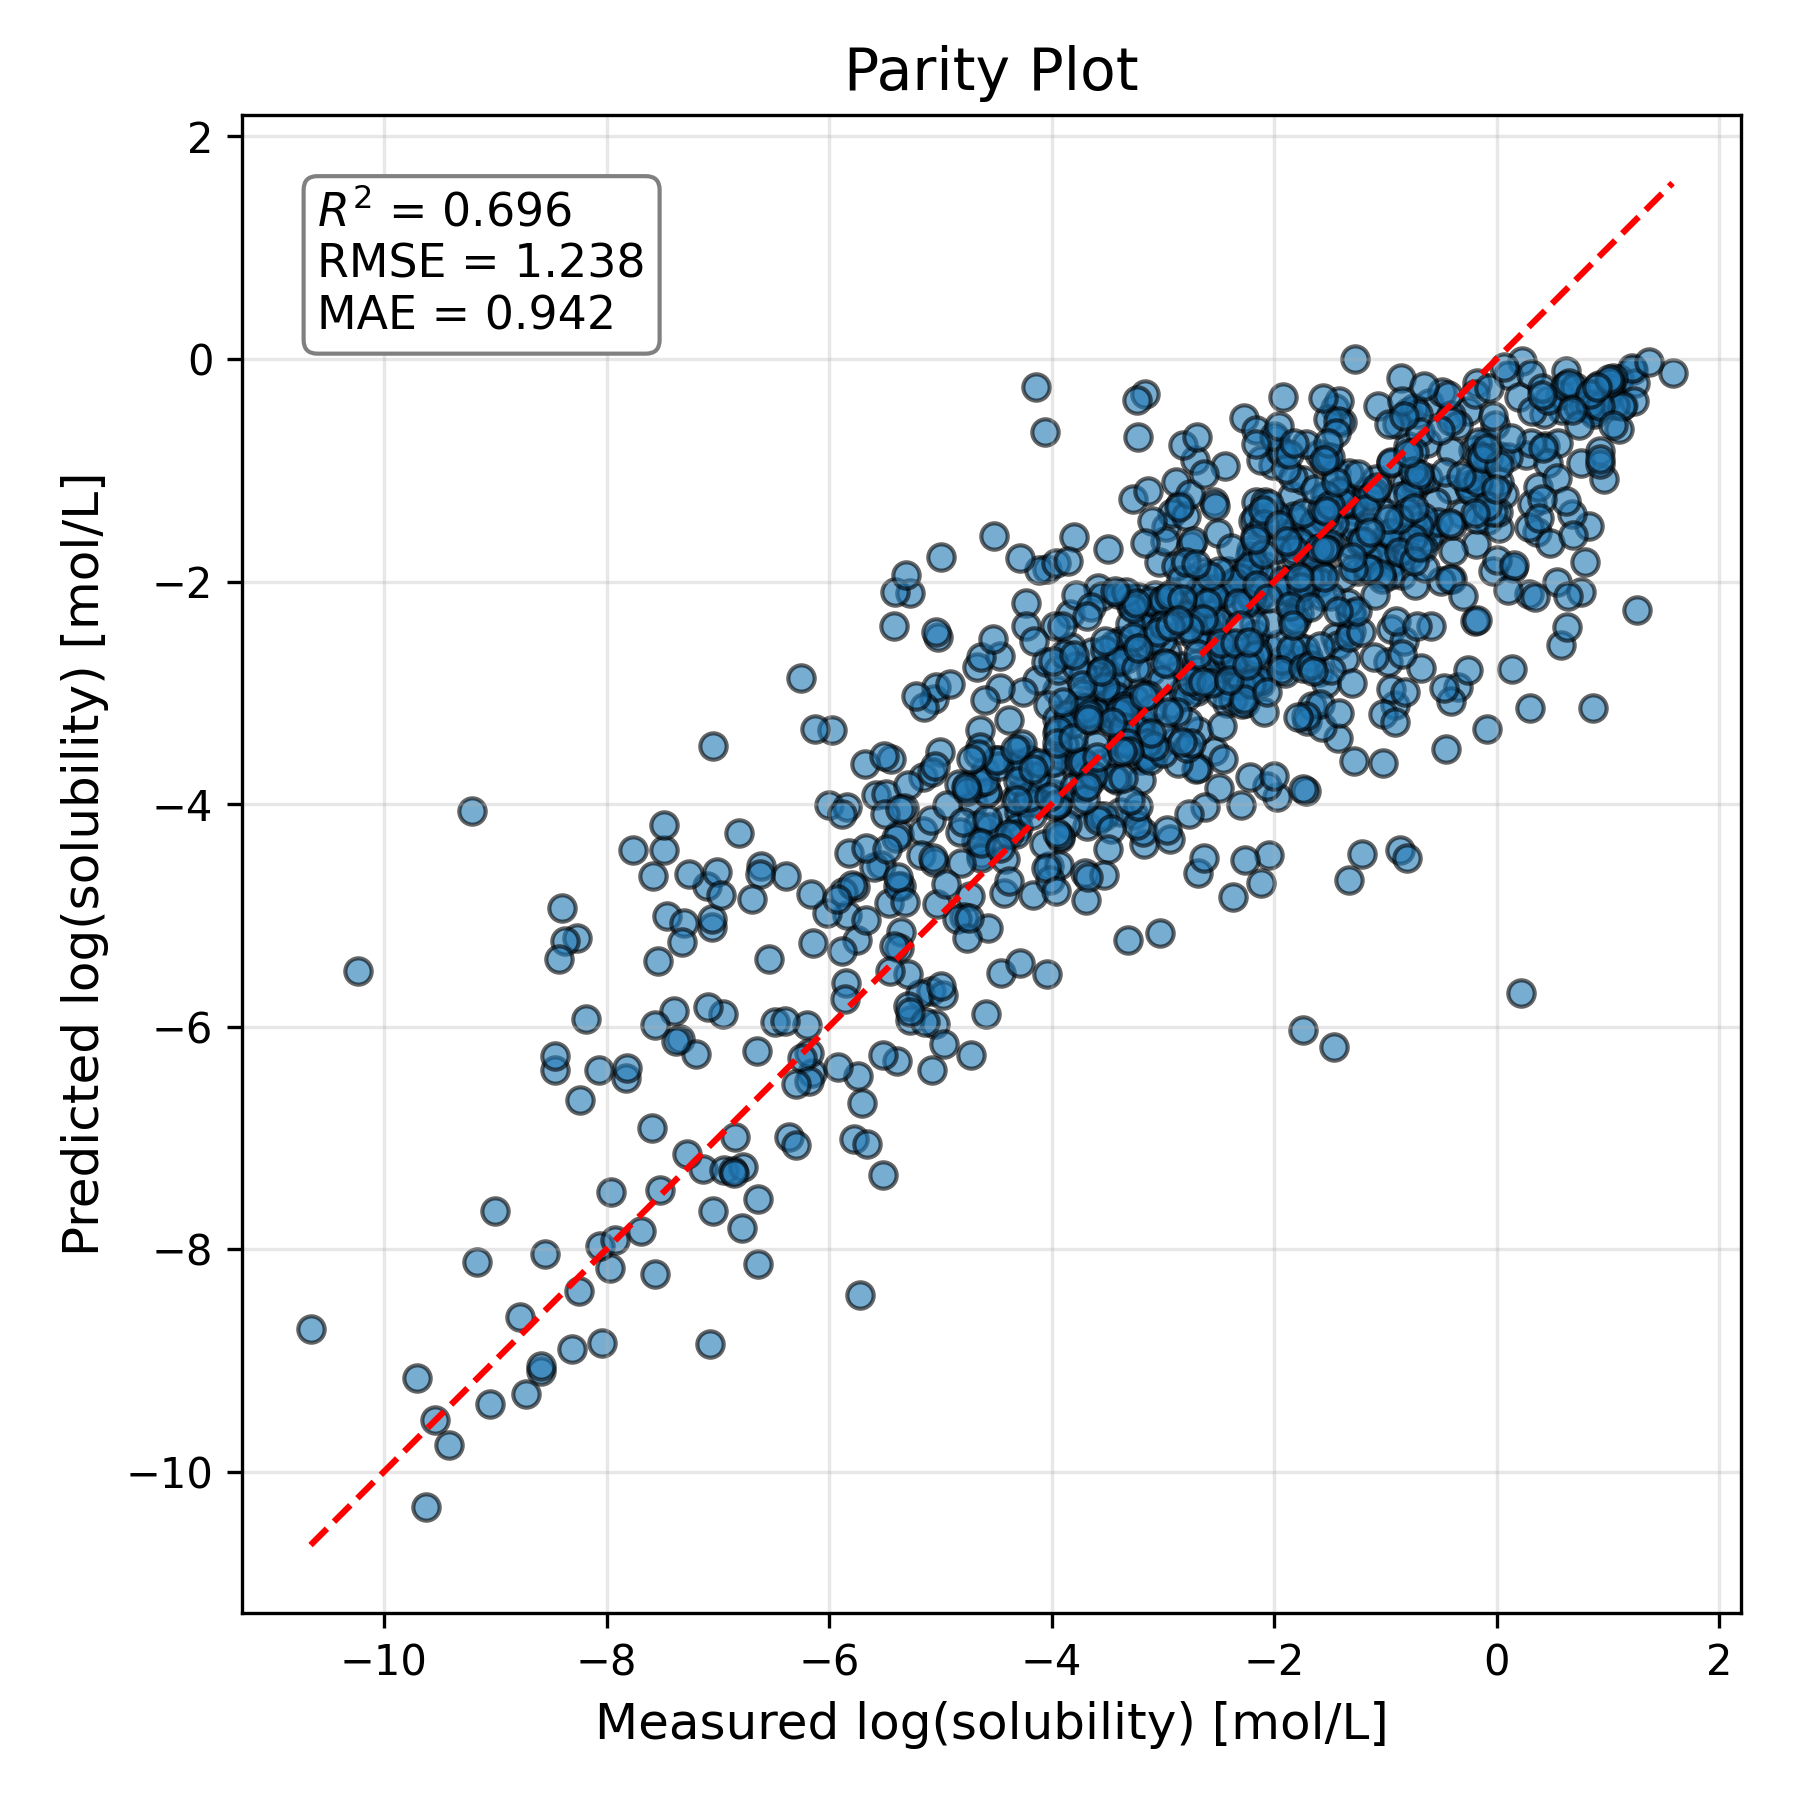
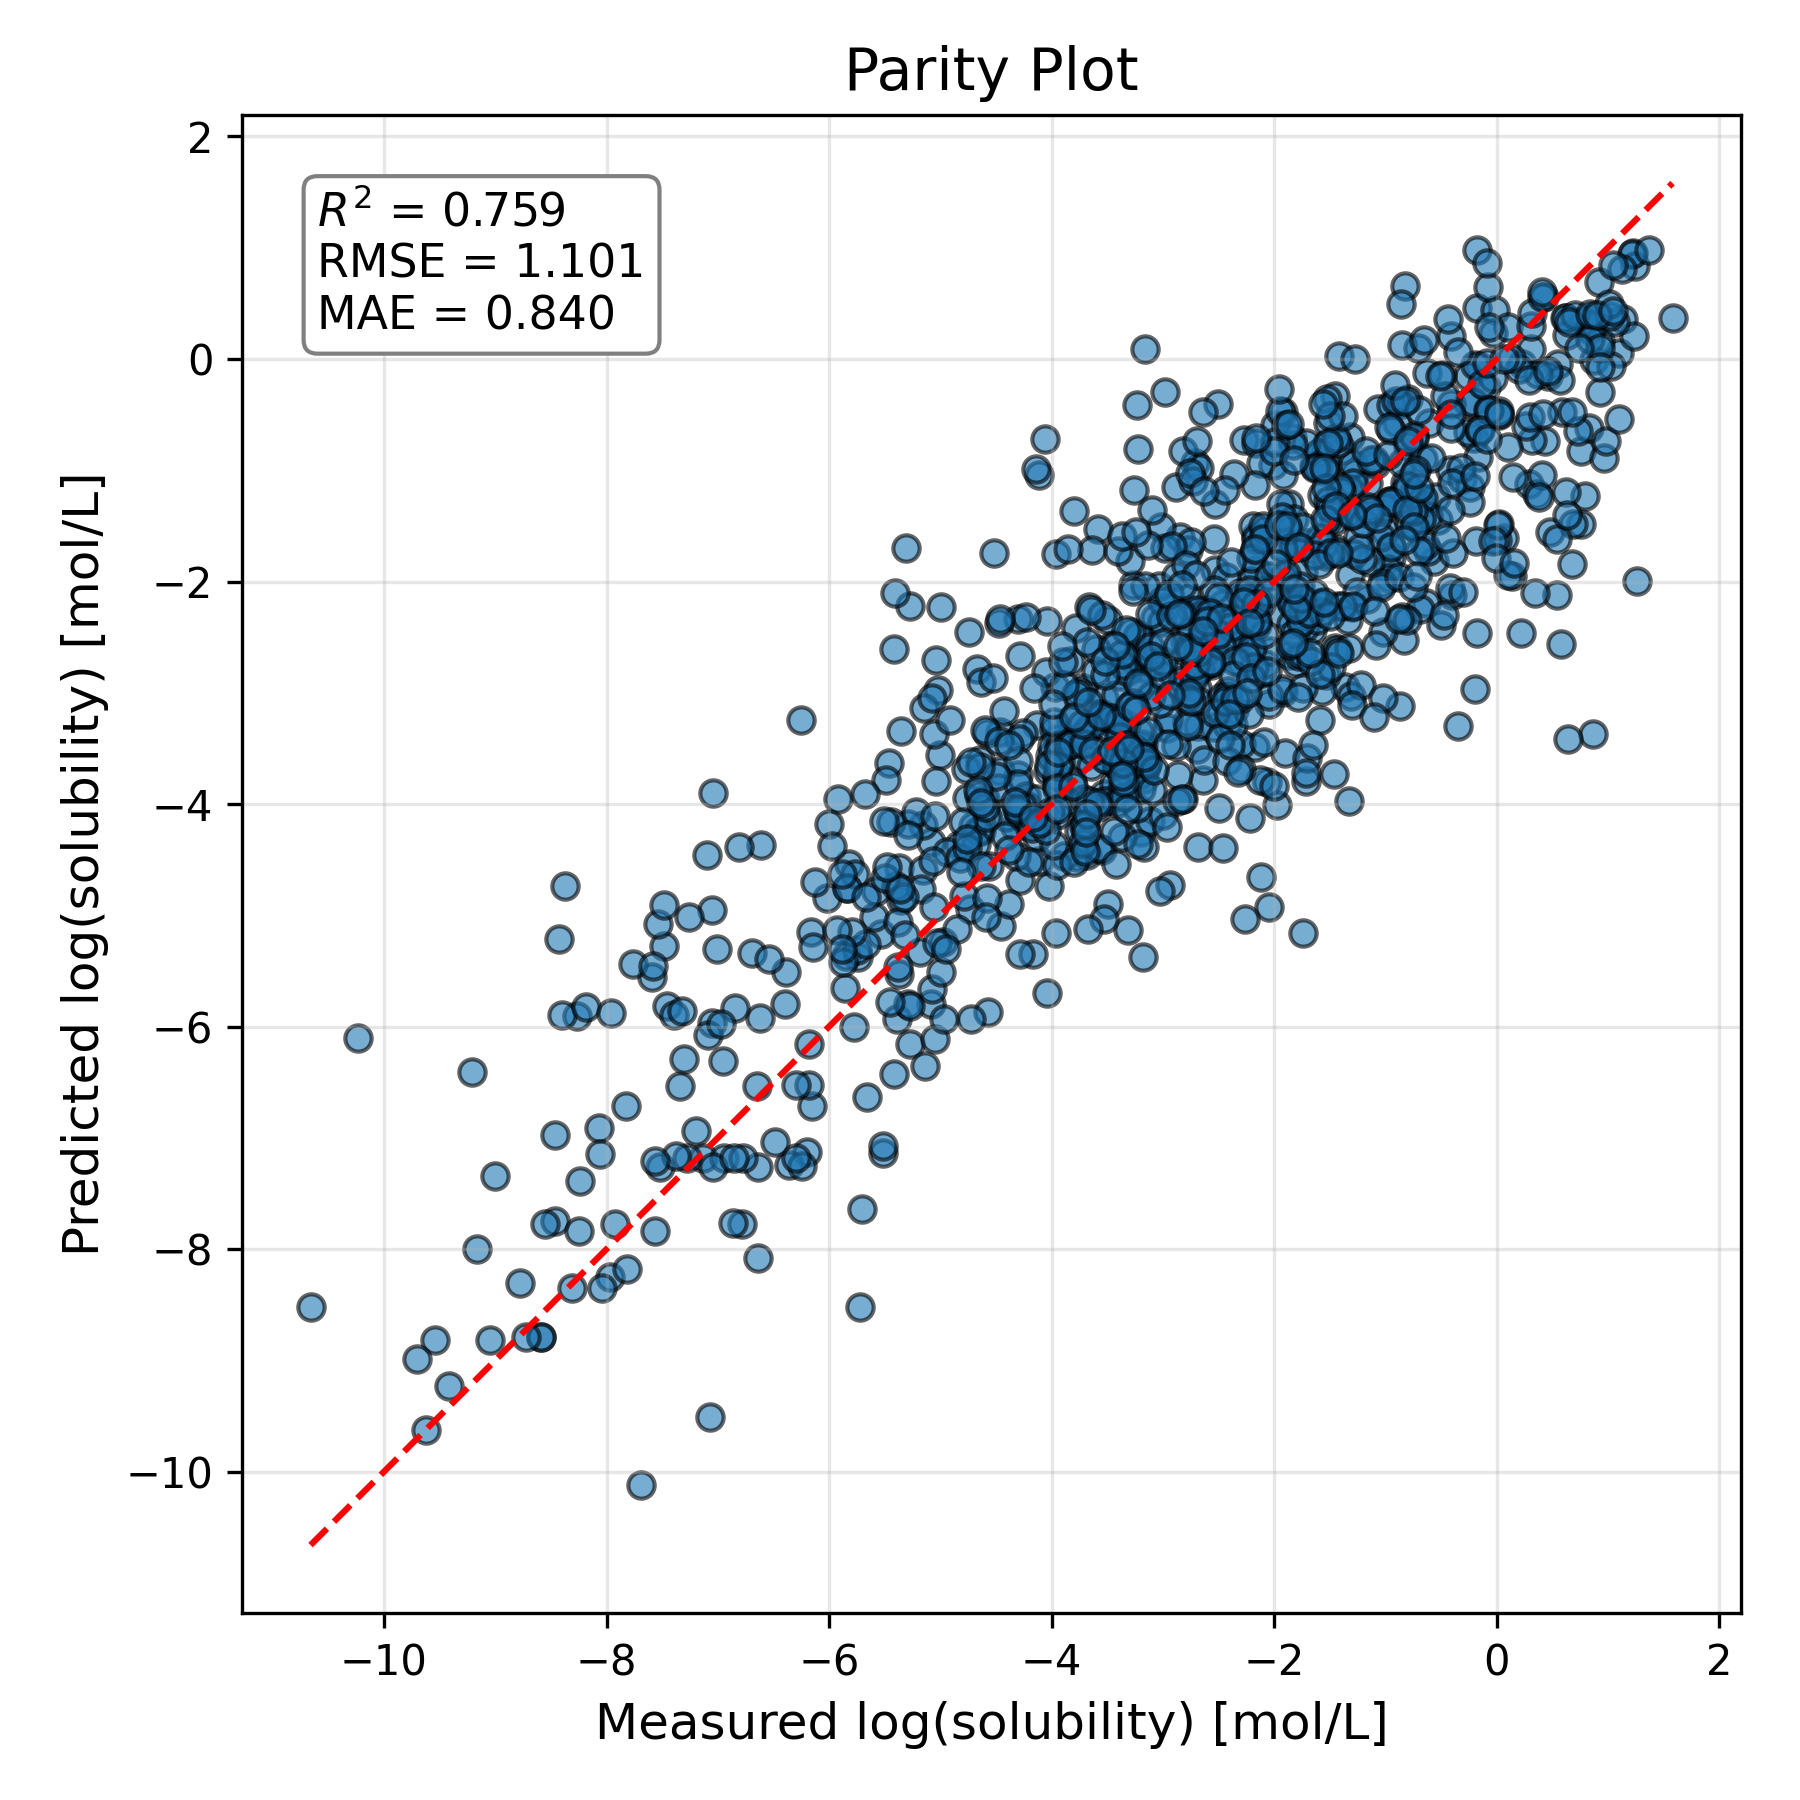
manually pick a different equation

diff --git a/main.py b/main.py
@@ -106,12 +106,15 @@ model
 
 # In[13]:
 
+model
+# best = model.get_best()
+best = model.get_best(15)
 
-pysr_eq = model.get_best()["lambda_format"]
+pysr_eq = best["lambda_format"]  # <-- manual choice if not training now
 pysr_eq
 
-print("Best model:")
-print(model.get_best()["equation"])
+print("Selected model:")
+print(best["equation"])
 
 
 # In[14]:

diff --git a/README.md b/README.md
@@ -5,3 +5,9 @@ Pat Walters' Prepared Biogen Dataset
 Download the training data from the ESOL paper SI.
 
 Download OChemUnseen from https://entrepot.recherche.data.gouv.fr/dataset.xhtml?persistentId=doi:10.57745/CZVZIA
+
+This is perhaps the final equation:
+
+```
+FractionCSP3 - (exp((((MolLogP * 1.9045392) + -8.334743) - abs(VSA_EState9 * log(qed))) / Chi0v) * 5.45409)
+```
